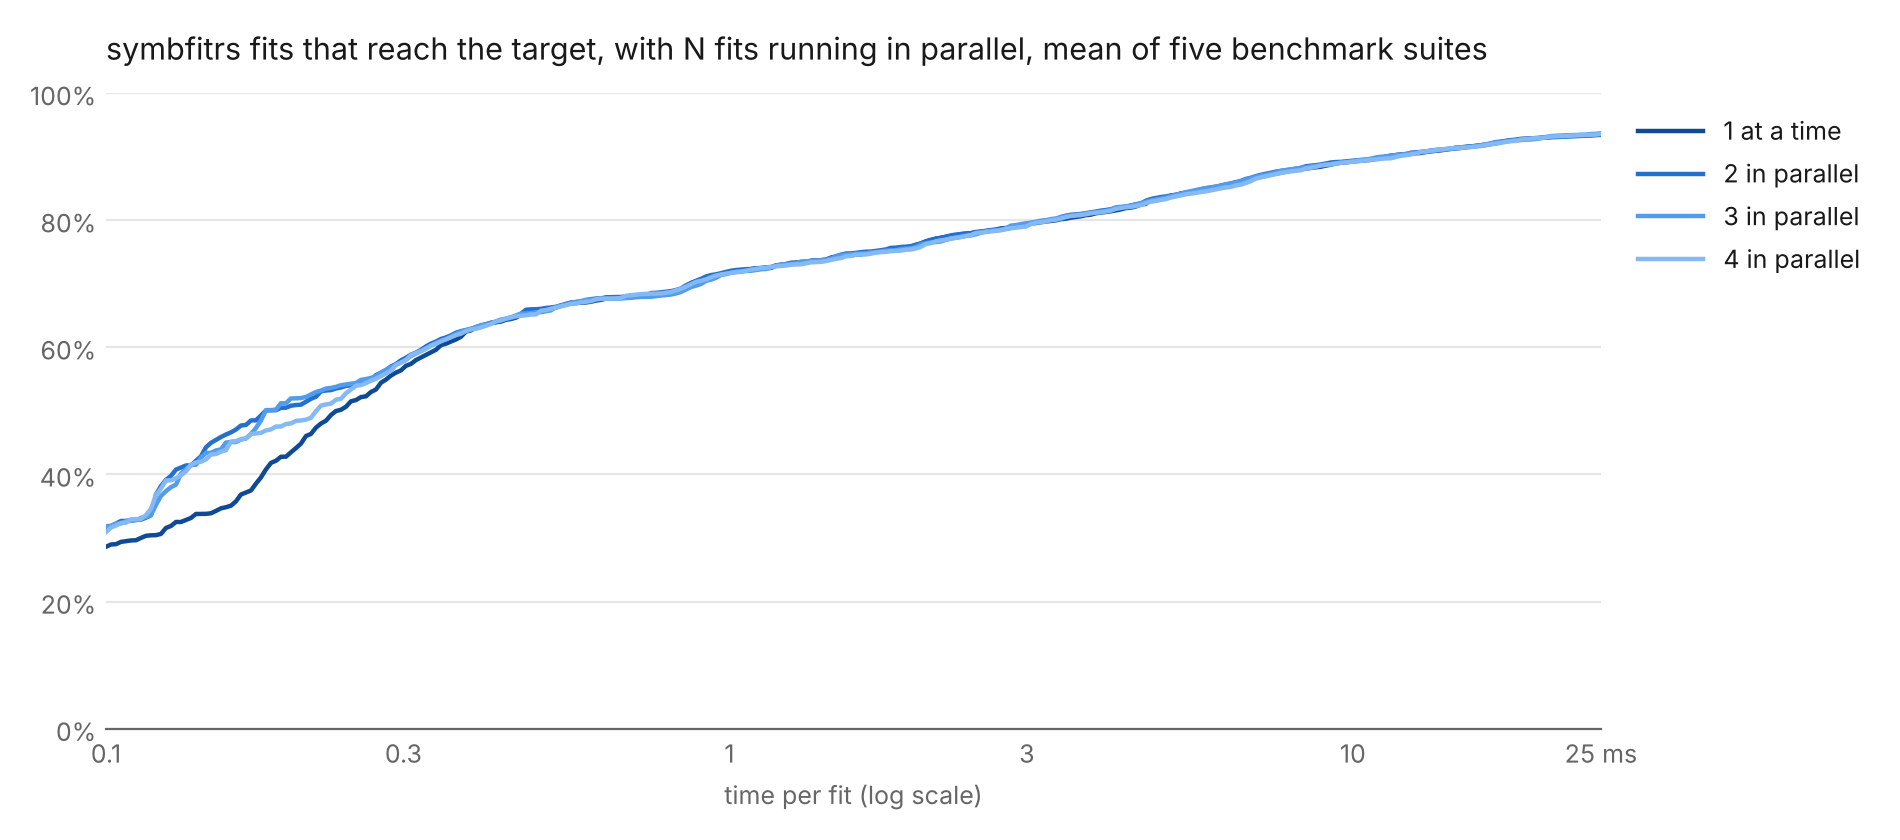
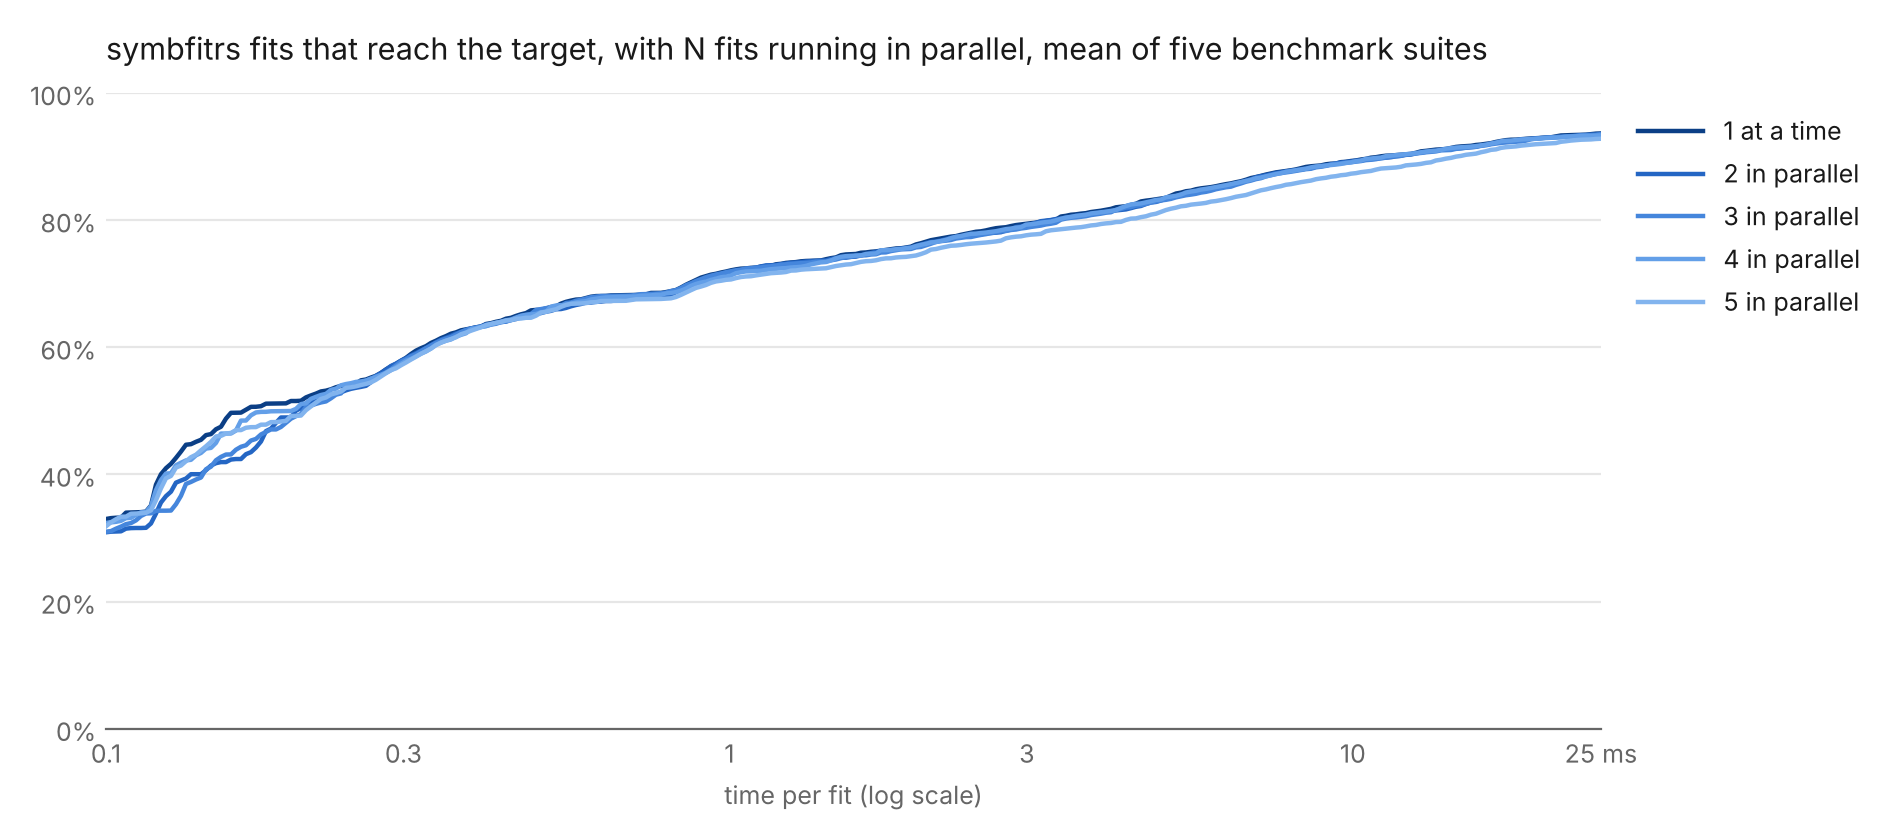
Extend the thread charts to 5 workers
Claude-Session: https://claude.ai/code/session_018erzbk9LrLmfqo26YcrLb6

diff --git a/bench/throughput.py b/bench/throughput.py
@@ -11,6 +11,7 @@ agreement compares each fit's final loss with the same fit's N=1 result.
 from __future__ import annotations
 
 import json
+import os
 from pathlib import Path
 
 import matplotlib
@@ -89,7 +90,9 @@ def draw(wall: dict[int, float], path: Path, theme: dict, mode: str, n_fits: int
         ax.spines[side].set_visible(False)
     ax.spines["bottom"].set_color(theme["muted"])
     ax.tick_params(colors=theme["muted"], labelsize=9, length=0)
-    ax.set_xlabel("workers", color=theme["muted"], fontsize=9)
+    ax.set_xlabel(
+        f"workers ({os.cpu_count()} CPUs on this machine)", color=theme["muted"], fontsize=9
+    )
     ax.set_title(f"Speed-up in clearing a queue of {n_fits:,} fits, by number of workers"
                  " (wall time under each point)", loc="left", color=theme["text"],
                  fontsize=11, pad=12)  # fmt: skip

diff --git a/bench/figure.py b/bench/figure.py
@@ -105,9 +105,9 @@ def draw(curves: dict[str, np.ndarray], path: Path, theme: dict) -> None:
 
 
 # one hue, light to dark: the more fits at once, the lighter; one at a time is the darkest
-THREAD_RAMPS = {  # lightest (most in parallel) first
-    "light": ["#84b9f3", "#519ced", "#2370cd", "#0f4a96"],
-    "dark": ["#a8cdf8", "#6aa8f2", "#338ced", "#1d6fd0"],
+THREAD_RAMPS = {  # lightest (most in parallel) first; the darkest k serve k lines
+    "light": ["#82b4ee", "#639fe8", "#4586dc", "#2466c4", "#0b3f86"],
+    "dark": ["#c9e0fb", "#a0c8f6", "#6aa8f2", "#338ced", "#1d6fd0"],
 }
 
 

diff --git a/README.md b/README.md
@@ -4,10 +4,10 @@ A fast CPU fitter for nonlinear equations, written in Rust, for symbolic regress
 
 <picture><source media="(prefers-color-scheme: dark)" srcset="https://raw.githubusercontent.com/wd7512/symbfitrs/main/docs/benchmark-dark.png"><img alt="Share of fits reaching the target against time per fit for twelve solvers: symbfitrs 72% at 1 ms and 86% at 5 ms; the best other, SciPy lm, 47% and 71%" src="https://raw.githubusercontent.com/wd7512/symbfitrs/main/docs/benchmark-light.png"></picture>
 
-<picture><source media="(prefers-color-scheme: dark)" srcset="https://raw.githubusercontent.com/wd7512/symbfitrs/main/docs/benchmark-threads-dark.png"><img alt="Share of symbfitrs fits reaching the target against time per fit with 1 to 4 fits running in parallel: 72% at 1 ms and 84% at 5 ms with one at a time, 72% and 83% with four in parallel" src="https://raw.githubusercontent.com/wd7512/symbfitrs/main/docs/benchmark-threads-light.png"></picture>
-<picture><source media="(prefers-color-scheme: dark)" srcset="https://raw.githubusercontent.com/wd7512/symbfitrs/main/docs/benchmark-throughput-dark.png"><img alt="Speed-up in clearing a queue of 5,078 fits with 1 to 4 workers: 1.96x with 2 workers, 2.97x with 3 and 3.90x with 4, close to ideal; wall time 109 s with one worker, 28 s with four" src="https://raw.githubusercontent.com/wd7512/symbfitrs/main/docs/benchmark-throughput-light.png"></picture>
+<picture><source media="(prefers-color-scheme: dark)" srcset="https://raw.githubusercontent.com/wd7512/symbfitrs/main/docs/benchmark-threads-dark.png"><img alt="Share of symbfitrs fits reaching the target against time per fit with 1 to 5 fits running in parallel: 72% at 1 ms and 84% at 5 ms with one at a time, 71% and 82% with five in parallel" src="https://raw.githubusercontent.com/wd7512/symbfitrs/main/docs/benchmark-threads-light.png"></picture>
+<picture><source media="(prefers-color-scheme: dark)" srcset="https://raw.githubusercontent.com/wd7512/symbfitrs/main/docs/benchmark-throughput-dark.png"><img alt="Speed-up in clearing a queue of 5,078 fits with 1 to 5 workers: 1.99x with 2 workers, 2.95x with 3, 3.91x with 4 and 4.20x with 5; wall time 108 s with one worker, 26 s with five" src="https://raw.githubusercontent.com/wd7512/symbfitrs/main/docs/benchmark-throughput-light.png"></picture>
 
-Six suites (NIST StRD, Moré–Garbow–Hillstrom, FitBenchmarking, SAGE-Fit, Stringer 2019, synthetic up to 99 parameters); one thread per fit; every solver at its library defaults (SciPy, Optimistix, Ceres via pyceres, SAGE-Fit, VarProPy, the Rust `varpro` crate; see `bench/baselines.py`); compile time not counted. The second chart reruns symbfitrs through the package on a 4-core machine, on the five suites whose problems are single expressions (not MGH). The third chart queues 5,078 fits on N workers (100 ms budget each); fits that settle on their own give identical results at every N. SAGE-Fit data is Python code the benchmark executes, so fetch only data you trust. The benchmark needs [uv](https://docs.astral.sh/uv/) and [cargo](https://rustup.rs/).
+Six suites (NIST StRD, Moré–Garbow–Hillstrom, FitBenchmarking, SAGE-Fit, Stringer 2019, synthetic up to 99 parameters); one thread per fit; every solver at its library defaults (SciPy, Optimistix, Ceres via pyceres, SAGE-Fit, VarProPy, the Rust `varpro` crate; see `bench/baselines.py`); compile time not counted. The second chart reruns symbfitrs through the package on a machine with 4 reported CPUs, on the five suites whose problems are single expressions (not MGH). The third chart queues 5,078 fits on N workers (100 ms budget each); fits that settle on their own give identical results at every N. SAGE-Fit data is Python code the benchmark executes, so fetch only data you trust. The benchmark needs [uv](https://docs.astral.sh/uv/) and [cargo](https://rustup.rs/).
 
 ```bash
 uv sync && uv run python -m bench.fetch nist fitbenchmarking sagefit stringer2019  # 860 MB
